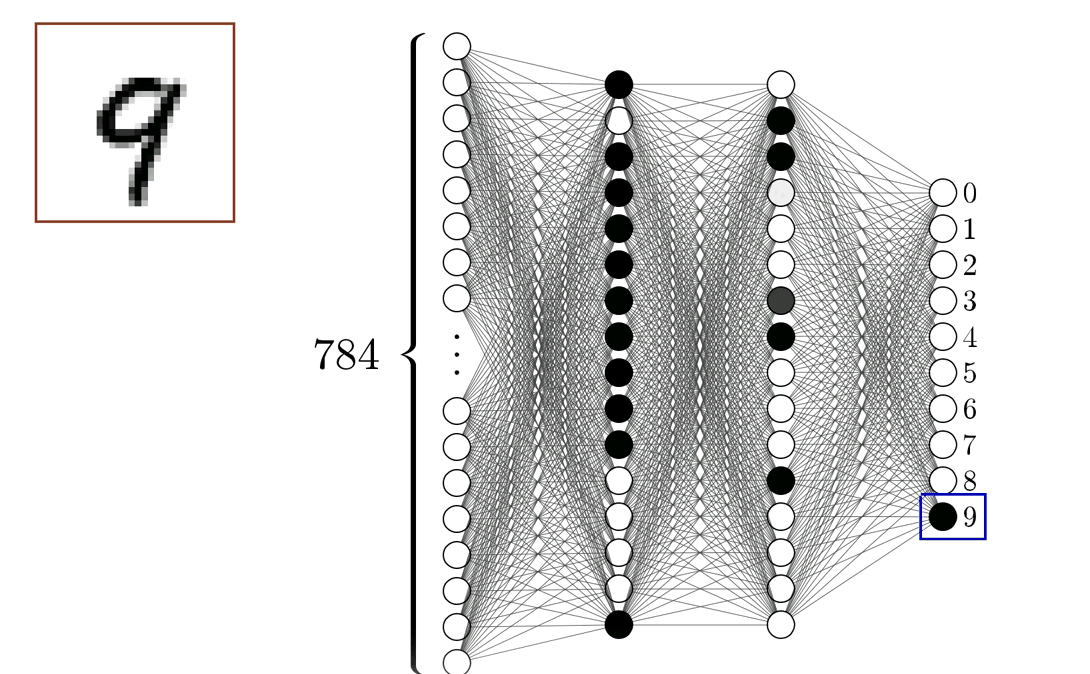
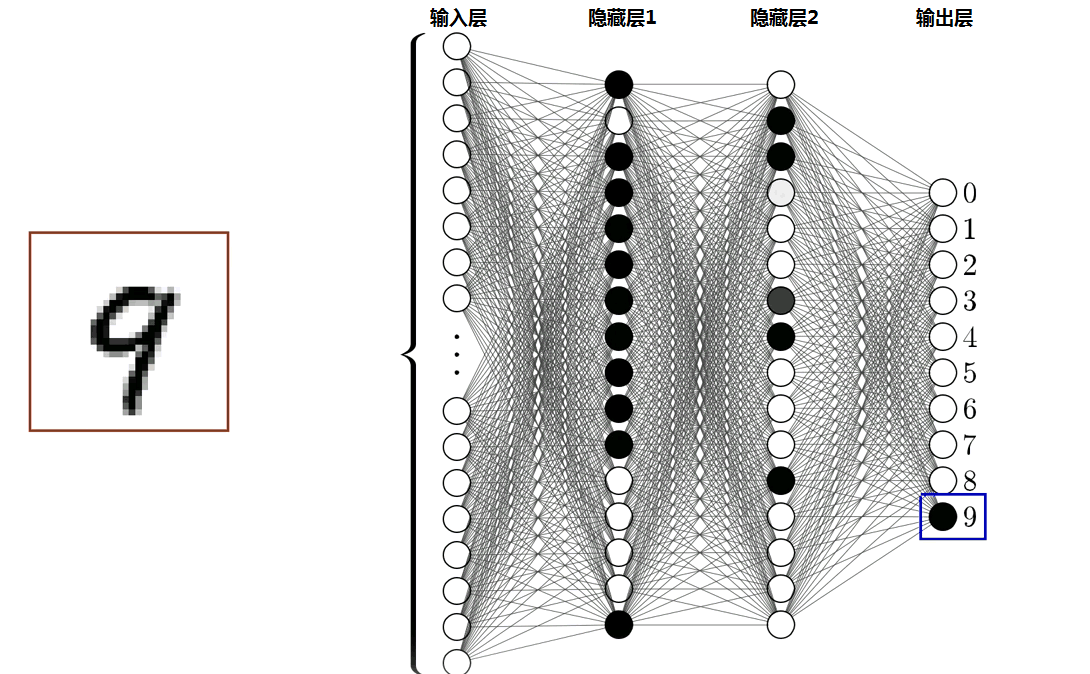
up

diff --git a/tutorial/getting_started.md b/tutorial/getting_started.md
@@ -47,6 +47,9 @@
   <img src="https://github.com/kebiao/deeplearning/blob/master/screenshots/tutorial/getting_started_3.png">
 </p>
 
+一个典型的神经网络，由几个、上百个、上千个甚至几百万个称为“单元”的人工神经元构成，它们排列在一系列的层中，每个层之间彼此相连。其中一些神经元叫做“输入单元”，用来从外界接收各种各样的信息，神经网络会用这些信息进行学习、识别模式或进行其它的处理。还有些神经元位于神经网络的另一边，与“输入单元”方向相反，它们显示神经网络对信息的学习状况，那么这些神经元就叫做“输出单元”。在“输入单元”和“输出”单元之间还有一个或者很多个由“隐藏单元”构成的层，和“输入层”及“输出层”层一起形成神经网络。
+
+
 例如，用于手写体识别的神经网络是由一组可能被输入图像的像素激活的输入神经元来限定。后进过加权，并通过一个函数（由网络的设计者确定的）转化，这些神经元的致动被上到其他神经元然后被传递。重复此过程，直到最后，一输出神经元被激活。这决定了哪些字符被读取。
 
 <p align="center">
